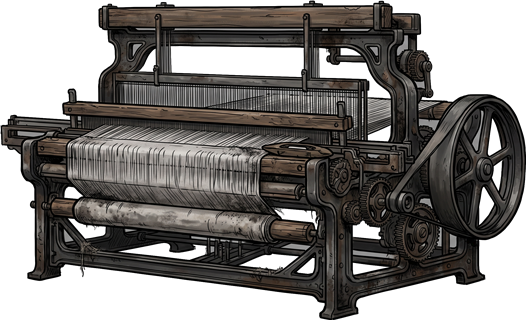
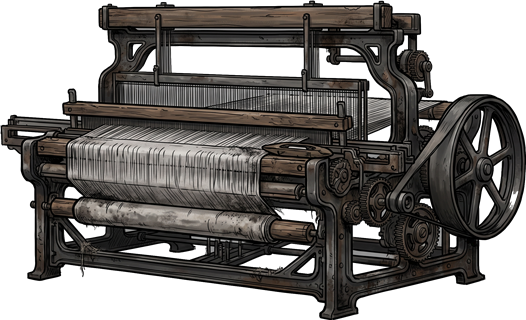
Webstuhl feiner geschnitten, Rest der Prüfung dokumentiert
Mindestdicke beim Webstuhl von r=14 auf r=8: die Kettfäden und das Gewebe
bleiben unverändert stehen, der stehengebliebene Blattgrund geht von 723 px
in neun Gebieten auf 321 px in vier Haarlinien zurück, die dünnste davon
genau einen Pixel hoch.

Dazu in HERKUNFT.md, was die Prüfung danach noch meldet und warum nichts
davon ein Rest ist: die gemeldeten Flächen auf Student, Arbeitergruppe,
Baumwollballen und Stoffballen liegen bei Helligkeiten, die der jeweilige
Blattgrund gar nicht hat, und das Eisenschild hat überhaupt keine
Transparenz. Saum- und Kantenprüfung melden über alle 53 Dateien null.

diff --git a/assets/HERKUNFT.md b/assets/HERKUNFT.md
@@ -236,8 +236,8 @@ Dazu kam eine **Mindestdicke** für Schritt 2: Eine eingeschlossene Fläche wird
 nur entfernt, wenn irgendwo ein Quadrat von 2r+1 Pixeln hineinpasst. Ohne das
 riss der Schnitt beim Webstuhl die Lücken zwischen den Kettfäden auf, und das
 Bild sah zerfressen aus. Werte: r = 3 bei den Spielerposen (die Achsellücken
-sind dort nur rund 13 px breit), r = 8 bei den Einzelfiguren, r = 14 beim
-Webstuhl. Beim Taler ist Schritt 2 ganz abgeschaltet – seine Münzfläche **ist**
+sind dort nur rund 13 px breit), r = 8 bei den Einzelfiguren und beim Webstuhl.
+Beim Taler ist Schritt 2 ganz abgeschaltet – seine Münzfläche **ist**
 Blattgrau, der Schnitt hätte das Gesicht ausgestanzt.
 
 **Die Spielerposen ohne Raten.** Das Referenzblatt hat sechs Spalten statt
@@ -260,3 +260,23 @@ gegeben. Weiß war dort ohnehin keines.
 
 `eisenschild.png` wurde nur um 1 px rundum gestutzt (478 × 250); der
 `border-image`-Slice von 52 bleibt dabei gültig.
+
+### Was nach der Reparatur noch anschlägt – und warum es bleibt
+
+Die Prüfung auf eingeschlossene farblose Flächen meldet weiter sechs Dateien.
+Alle sechs wurden einzeln kontrolliert, keine ist ein Rest:
+
+- `npc_student`, `npc_arbeitergruppe`, `baumwolle`, `stoffballen`: die
+  gemeldeten Flächen liegen bei einer Helligkeit, die der jeweilige Blattgrund
+  gar nicht hat (119 gegen 145, 218 gegen 154 …). Es sind das glatte Gewand des
+  Studenten, ein heller Fleck auf der Schürze der alten Frau, die Leinwand der
+  Ballen. Beim Studenten kommt dazu, dass sein Blatt **weiß** war – ein Rest
+  müsste bei 255 liegen, nicht bei 119.
+- `eisenschild` hat überhaupt keine Transparenz; gemeldet wird die Platte selbst.
+- `webstuhl_detail` behält 321 px in vier Haarlinien, die dünnste genau einen
+  Pixel hoch. Sie verschwinden nur, wenn man die Mindestdicke so weit senkt,
+  dass es die Kettfäden mitnimmt – das Bild sähe dann zerfressen aus.
+
+Die beiden anderen Prüfungen – heller Saum an der Silhouette und fast weiße
+Pixel an der Transparenzkante – melden über alle 53 PNG-Dateien **null**
+Treffer.
